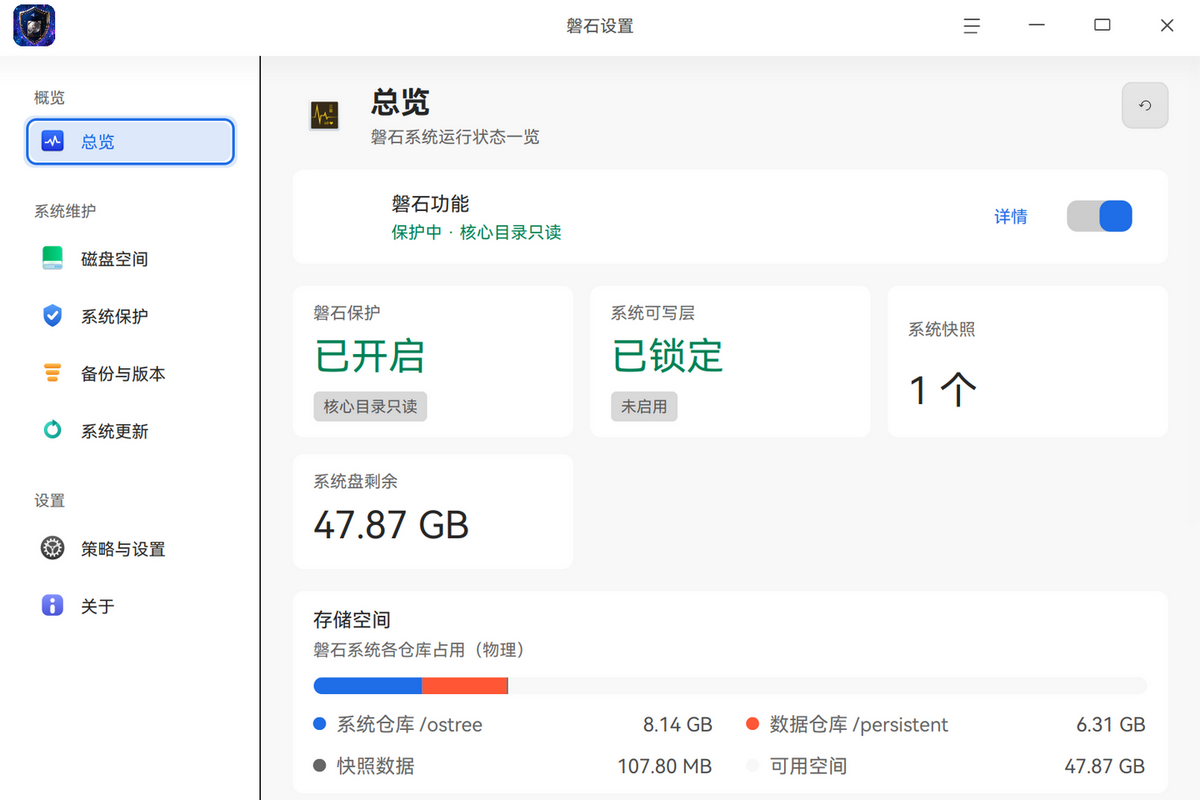
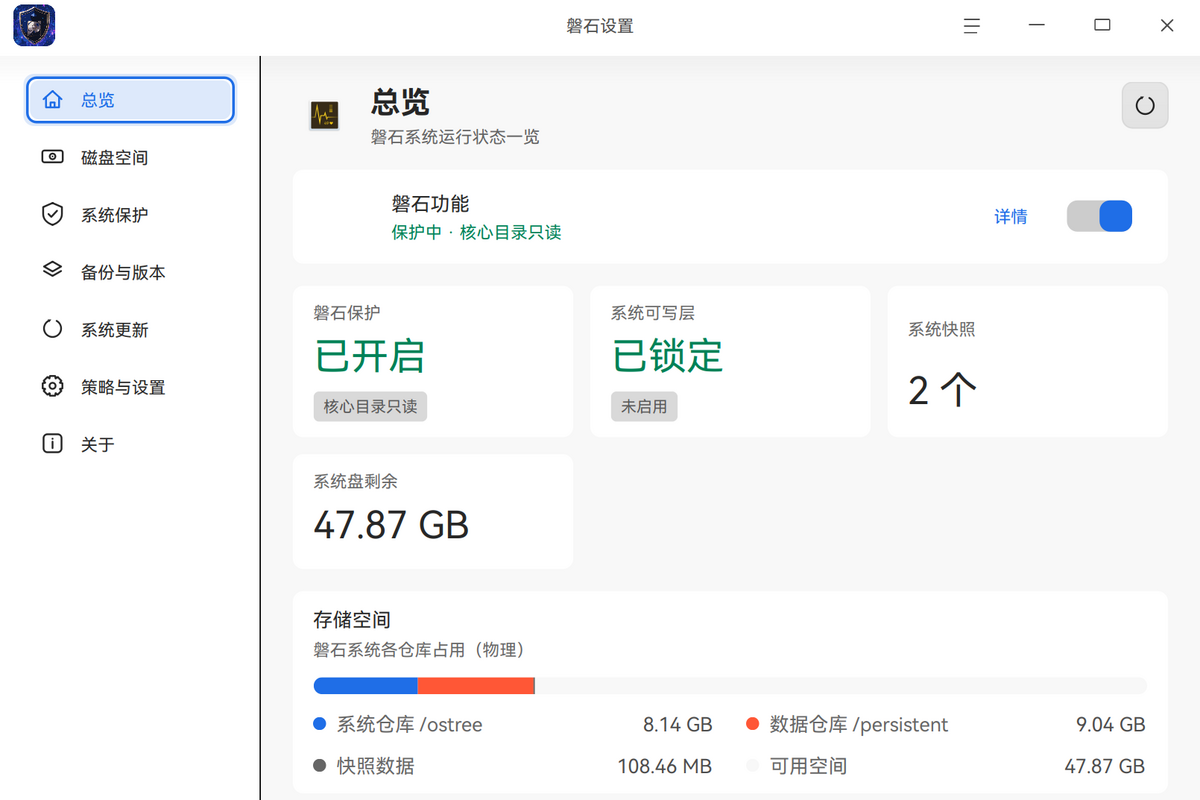
docs: 界面截图更新到 v1.0.8，并补充「关于」页
原有六张截图取自 v1.0.6：侧栏仍是彩色位图图标、且没有「关于」页，
与当前版本已经对不上。全部用 1.0.8 实机重拍（1440x960 窗口，统一裁剪为
1200x800），并新增关于页截图，展示本版改版的技术参考卡与常用命令卡。

diff --git a/README.md b/README.md
@@ -44,7 +44,7 @@ Deepin 25（代号「磐石」）把系统盘做成了 **ostree 不可变镜像*
 
 ## 🖼 界面一览
 
-> 以下截图取自 v1.0.6 实机运行（简体中文、系统浅色主题）。
+> 以下截图取自 v1.0.8 实机运行（简体中文、系统浅色主题）。
 
 ### 总览
 
@@ -91,6 +91,14 @@ Deepin 25（代号「磐石」）把系统盘做成了 **ostree 不可变镜像*
 参数按作用域分组标注——**应用级**即时保存，**系统级**需显式保存，改之前就知道会影响什么。
 
 ![策略与设置页](docs/screenshots/06-policy.png)
+
+### 关于
+
+版本信息、技术基础与支持平台集中在一张卡上，可一键复制成一段文本。下方是两张**可折叠**的参考卡：
+「磐石系统技术参考」给出不可变系统的六条核心机制，「常用命令参考」列出常用的
+`deepin-immutable-*` 命令，支持逐条复制或一键复制全部。两张卡默认收起，点击标题行即可展开。
+
+![关于页](docs/screenshots/07-about.png)
 
 ---
 
